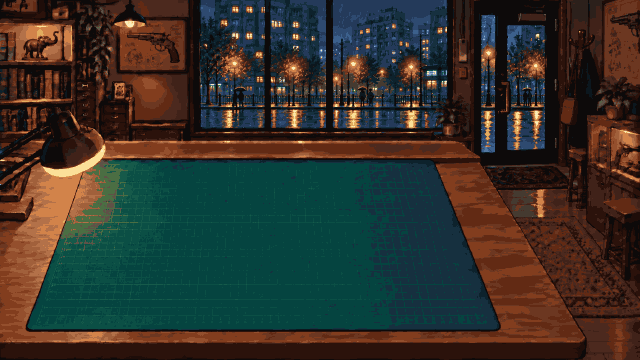
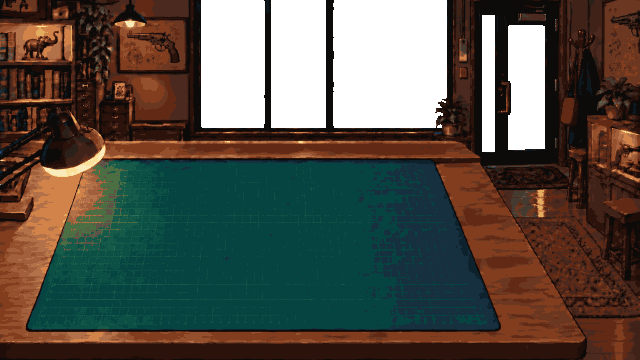
Draw the street as its own layer under the room
The new room background has transparent window panes and door glass,
and the rainy street outside is a separate image
(assets/backgrounds/street.png). The game draws the street first,
raised by 125 px (LudumDare60Game.StreetOffset) so the embankment with
its lamps, railing and reflections fills the window, then the room over
it. Both are reduced to the palette; the room's alpha is 0 or 255.

The game tests without the background leave out both layers, so the
other texture ids stay where they were; the background tests check the
draw order and that the window is see-through and the mat opaque.

diff --git a/tests/LudumDare60.Game.Tests/LudumDare60GameTests.cs b/tests/LudumDare60.Game.Tests/LudumDare60GameTests.cs
@@ -1100,6 +1100,7 @@ public sealed class LudumDare60GameTests
         _platform.Frame(0);
 
         Assert.False(_game.HasBackground);
+        Assert.False(_game.HasStreet);
         Assert.Equal(s_startTextures, _platform.Backend.Textures.Count);
     }
 
@@ -1111,22 +1112,43 @@ public sealed class LudumDare60GameTests
         platform.Frame(0);
 
         Assert.True(game.HasBackground);
+        Assert.True(game.HasStreet);
         Assert.Contains($"create 2 {LudumDare60Game.VirtualWidth}x{LudumDare60Game.VirtualHeight}", platform.Backend.Calls, StringComparer.Ordinal);
+        Assert.Contains($"create 3 {LudumDare60Game.VirtualWidth}x{LudumDare60Game.VirtualHeight}", platform.Backend.Calls, StringComparer.Ordinal);
     }
 
     [Fact]
-    public void Render_BackgroundLoaded_DrawsItFirstAtTheOrigin()
+    public void BackgroundTexture_WindowIsSeeThroughAndTheMatIsOpaque()
+    {
+        var (platform, _) = StartWithShippedAssets();
+
+        platform.Frame(0);
+
+        // A window pane, the door glass and the middle of the mat.
+        var room = platform.Backend.Textures[2];
+        Assert.Equal(0, AlphaAt(room, LudumDare60Game.VirtualWidth, 300, 40));
+        Assert.Equal(0, AlphaAt(room, LudumDare60Game.VirtualWidth, 510, 60));
+        Assert.Equal(255, AlphaAt(room, LudumDare60Game.VirtualWidth, 300, 250));
+        Assert.Equal(255, AlphaAt(platform.Backend.Textures[3], LudumDare60Game.VirtualWidth, 300, 40));
+    }
+
+    [Fact]
+    public void Render_BackgroundLoaded_DrawsTheStreetFirstThenTheRoomAtTheOrigin()
     {
         var (platform, _) = StartWithShippedAssets();
 
         platform.Frame(0);
 
         var frame = Assert.Single(platform.Backend.Frames);
-        var background = Assert.Single(frame.Instances);
-        Assert.Equal(Vector2.Zero, background.Position);
-        Assert.Equal(LudumDare60Game.VirtualWidth, background.SourceWidth);
-        Assert.Equal(LudumDare60Game.VirtualHeight, background.SourceHeight);
-        Assert.Equal(new RenderCommand(RenderCommandKind.DrawSprites, [2, 0, 1]), frame.Decode()[2]);
+        Assert.Equal(2, frame.Instances.Length);
+        Assert.Equal(LudumDare60Game.StreetOffset, frame.Instances[0].Position);
+        var room = frame.Instances[1];
+        Assert.Equal(Vector2.Zero, room.Position);
+        Assert.Equal(LudumDare60Game.VirtualWidth, room.SourceWidth);
+        Assert.Equal(LudumDare60Game.VirtualHeight, room.SourceHeight);
+        var commands = frame.Decode();
+        Assert.Equal(new RenderCommand(RenderCommandKind.DrawSprites, [3, 0, 1]), commands[2]);
+        Assert.Equal(new RenderCommand(RenderCommandKind.DrawSprites, [2, 1, 1]), commands[3]);
     }
 
     [Fact]
@@ -1137,8 +1159,8 @@ public sealed class LudumDare60GameTests
         platform.Frame(0);
         platform.Frame(0.01);
 
-        Assert.Equal(s_startTextures + 1, platform.Backend.Textures.Count);
-        Assert.Single(platform.Backend.Frames[1].Instances);
+        Assert.Equal(s_startTextures + 2, platform.Backend.Textures.Count);
+        Assert.Equal(2, platform.Backend.Frames[1].Instances.Length);
     }
 
     private static (ManualPlatform Platform, LudumDare60Game Game) StartWithShippedAssets()
@@ -1156,7 +1178,7 @@ public sealed class LudumDare60GameTests
     {
         // Reads finish at once, so a file requested in Initialize is loaded in the first frame.
         public Task<byte[]> ReadAsync(string path)
-            => !withBackground && string.Equals(path, AssetPaths.Bench, StringComparison.Ordinal)
+            => !withBackground && (string.Equals(path, AssetPaths.Bench, StringComparison.Ordinal) || string.Equals(path, AssetPaths.Street, StringComparison.Ordinal))
                 ? Task.FromException<byte[]>(new FileNotFoundException(path))
                 : Task.FromResult(Read(path));
 

diff --git a/src/game/LudumDare60.Game/LudumDare60Game.cs b/src/game/LudumDare60.Game/LudumDare60Game.cs
@@ -41,6 +41,12 @@ public sealed class LudumDare60Game : IGame
     public static readonly Color MatColor = Color.FromRgb(0x0b4f45);
 
     /// <summary>
+    /// Where the top-left corner of the street is drawn, in virtual pixels: raised so that the embankment with its
+    /// lamps, railing and reflections fills the window panes and the door glass of the room.
+    /// </summary>
+    public static readonly Vector2 StreetOffset = new(0, -125);
+
+    /// <summary>
     /// How long the parts that block a refused part flash, in seconds.
     /// </summary>
     public const float HintSeconds = 0.6f;
@@ -102,9 +108,11 @@ public sealed class LudumDare60Game : IGame
     private Graphics? _graphics;
     private Audio? _audio;
     private AssetHandle<Image> _benchImage;
+    private AssetHandle<Image> _streetImage;
     private AssetHandle<OrderBook> _ordersHandle;
     private bool _hasOrders;
     private Texture _bench;
+    private Texture _street;
     private Texture _parts;
     private Texture _customers;
     private bool _hasSheets;
@@ -160,6 +168,11 @@ public sealed class LudumDare60Game : IGame
     public bool HasBackground { get; private set; }
 
     /// <summary>
+    /// Whether the street seen through the windows is loaded and drawn.
+    /// </summary>
+    public bool HasStreet { get; private set; }
+
+    /// <summary>
     /// Every order, once <c>orders.json</c> is loaded.
     /// </summary>
     public OrderBook? Orders { get; private set; }
@@ -183,6 +196,7 @@ public sealed class LudumDare60Game : IGame
         assets.Register(new ImageLoader());
         assets.Register(new OrderBookLoader());
         _benchImage = assets.Request<Image>(AssetPaths.Bench);
+        _streetImage = assets.Request<Image>(AssetPaths.Street);
         for (var i = 0; i < _customerImages.Length; i++)
         {
             _customerImages[i] = assets.Request<Image>(AssetPaths.CustomerSheets[i].Value);
@@ -269,6 +283,13 @@ public sealed class LudumDare60Game : IGame
             _bench = _graphics!.CreateTexture(bench);
             _assets.Release(_benchImage);
             HasBackground = true;
+        }
+
+        if (!HasStreet && _assets!.TryGet(_streetImage, out var street))
+        {
+            _street = _graphics!.CreateTexture(street);
+            _assets.Release(_streetImage);
+            HasStreet = true;
         }
 
         for (var i = 0; i < _customerImages.Length; i++)
@@ -397,6 +418,12 @@ public sealed class LudumDare60Game : IGame
     {
         ArgumentNullException.ThrowIfNull(batch);
         batch.Clear(MatColor);
+        if (HasStreet)
+        {
+            // Under the room: it shows only through the window panes and the door glass.
+            batch.Draw(_street, StreetOffset);
+        }
+
         if (HasBackground)
         {
             batch.Draw(_bench, Vector2.Zero);

diff --git a/src/game/LudumDare60.Game/AssetPaths.cs b/src/game/LudumDare60.Game/AssetPaths.cs
@@ -6,9 +6,15 @@ namespace LudumDare60.Game;
 public static class AssetPaths
 {
     /// <summary>
-    /// The workshop with the empty bench and the cutting mat, the size of the virtual screen.
+    /// The workshop with the empty bench and the cutting mat, the size of the virtual screen. The window panes and the
+    /// door glass are transparent: <see cref="Street"/> shows through them.
     /// </summary>
     public const string Bench = "backgrounds/bench.png";
+
+    /// <summary>
+    /// The rainy street outside, drawn under <see cref="Bench"/> (see <see cref="LudumDare60Game.StreetOffset"/>).
+    /// </summary>
+    public const string Street = "backgrounds/street.png";
 
     /// <summary>
     /// Every customer's order, in the order they come in (see <see cref="Orders.OrderBook"/>).

diff --git a/docs/gamedesign/art-direction.md b/docs/gamedesign/art-direction.md
@@ -48,6 +48,16 @@ are and reduced to the palette (nearest color in OKLab, no dithering).
 - Keep 32 colors for now. Trim (towards 24) only after the first sprites, by merging steps that never appear next to
   each other.
 
+## Backgrounds
+
+Two layers in `src/game/LudumDare60.Game.Browser/wwwroot/assets/backgrounds/`, 640x360 each, reduced to the palette;
+the sources and their 640x360 versions are in `art/reference/` (`bench-empty-*`, `street-*`):
+
+- `street.png`: the rainy street outside, opaque. Drawn first, raised by 125 px (`LudumDare60Game.StreetOffset`) so
+  the embankment with its lamps, railing and reflections fills the window.
+- `bench.png`: the room with the bench and the mat, drawn over the street. The window panes and the door glass are
+  transparent (alpha 0 or 255, nothing in between).
+
 ## Customer sheets
 
 One PNG per customer look in `src/game/LudumDare60.Game.Browser/wwwroot/assets/customers/<look>.png` (the look is
